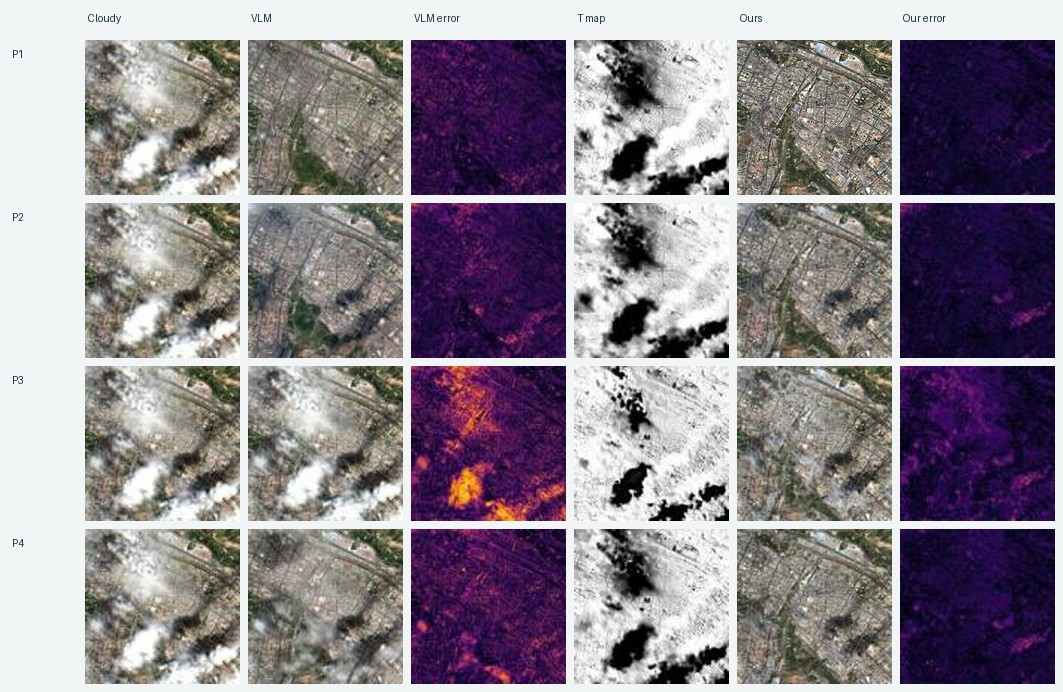
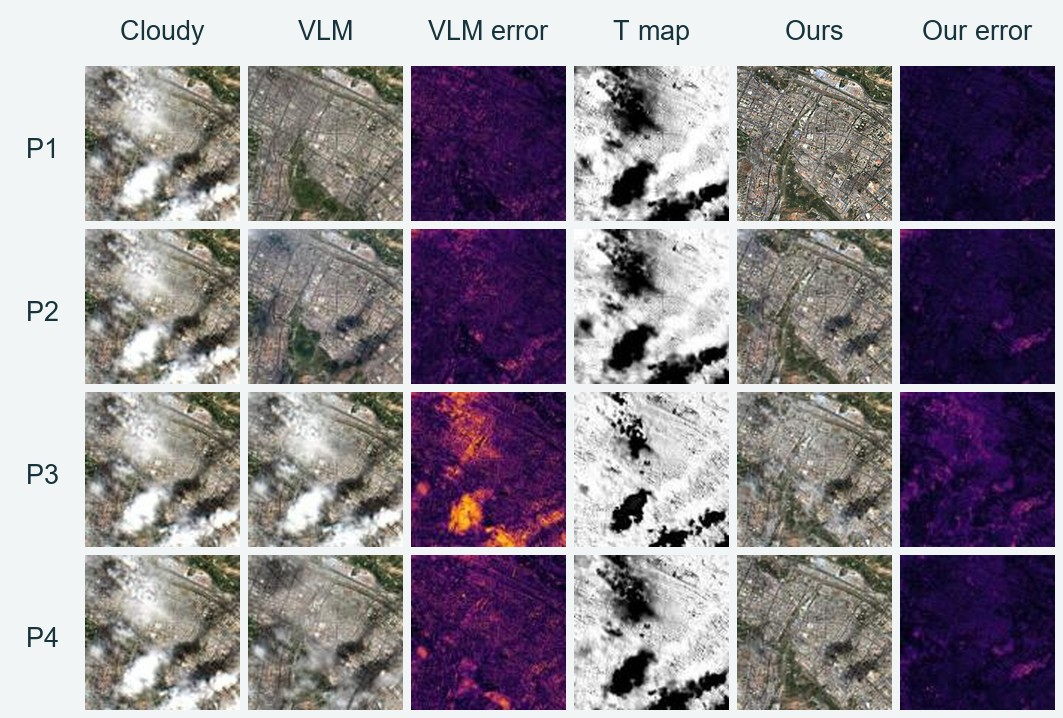
Add prompt sensitivity metrics and refine project navigation

diff --git a/docs/index.html b/docs/index.html
@@ -21,6 +21,15 @@
     .metrics tbody th { text-align: left; }
     .metrics th, .metrics td { padding: 9px 6px; }
     .table-note { margin: 12px 0 0; color: var(--muted); font-size: 13px; }
+    .prompt-table { width: 100%; min-width: 0; margin: 0 0 28px; table-layout: fixed; font-size: 14px; }
+    .prompt-table th, .prompt-table td { padding: 10px 8px; border-bottom: 1px solid var(--line); text-align: left; white-space: normal; overflow-wrap: anywhere; }
+    .prompt-table thead th { border-top: 1px solid var(--line); font-size: 13px; }
+    .prompt-table th:first-child { width: 6%; }
+    .prompt-table th:nth-child(2) { width: 12%; }
+    .prompt-table th:nth-child(3) { width: 10%; }
+    .prompt-table th:nth-child(4) { width: 38%; }
+    .prompt-table th:nth-child(5), .prompt-table th:nth-child(6) { width: 17%; }
+    .prompt-table tbody th { font-weight: 700; }
     .citation-section pre { margin: 0; padding: 23px; overflow-x: auto; border: 1px solid var(--line); border-radius: 7px; background: #f6f8f9; color: #384a55; font: 13px/1.65 Consolas, "Liberation Mono", monospace; }
     @media (max-width: 640px) {
       .metrics thead { display: none; }
@@ -30,6 +39,11 @@
       .metrics tbody td { display: block; text-align: left; }
       .metrics tbody td::before { content: attr(data-label); display: block; color: var(--muted); font-weight: 600; white-space: normal; }
       .metrics .table-wrap { overflow: visible; }
+      .prompt-table thead { display: none; }
+      .prompt-table, .prompt-table tbody, .prompt-table tr, .prompt-table th, .prompt-table td { display: block; width: 100% !important; }
+      .prompt-table tr { margin-bottom: 12px; border: 1px solid var(--line); background: #fff; }
+      .prompt-table tbody th { background: #eef3f6; }
+      .prompt-table td::before { content: attr(data-label); display: block; color: var(--muted); font-size: 12px; font-weight: 600; }
       .citation-section pre { font-size: 11px; }
     }
   </style>
@@ -55,7 +69,7 @@
       <div class="actions">
         <a class="button secondary" href="https://ieeexplore.ieee.org/abstract/document/11641653" target="_blank" rel="noopener noreferrer">Paper <span aria-hidden="true">↗</span></a>
         <a class="button secondary" href="https://github.com/Liying-Xu/PhyVLM-CR">Code <span aria-hidden="true">↗</span></a>
-        <a class="button secondary" href="PhyVLM_CR6_Colab.ipynb" download>Colab notebook <span aria-hidden="true">↓</span></a>
+        <a class="button secondary" href="#code">Colab notebook <span aria-hidden="true">↓</span></a>
       </div>
     </section>
 
@@ -78,7 +92,7 @@
 
     <section id="results" class="section results-section">
       <div class="wrap">
-        <div class="section-head"><span class="kicker">02 / EXPERIMENTS</span><h2>Six scenes.<br><em>One continuous treatment.</em></h2></div>
+        <div class="section-head"><span class="kicker">02 / EXPERIMENTS</span><h2>All-cloud Removal Results</h2></div>
         <p class="intro">The manuscript evaluates six 2023 Sentinel-2 scenes using the nearest clear observation as ground truth and the second-nearest as the temporal reference. The images below are reproduced from the supplied manuscript.</p>
         <figure class="figure-card dark-card">
           <a href="assets/results.jpg" target="_blank" rel="noopener noreferrer" aria-label="Open all-cloud removal comparison at full size"><img src="assets/results.jpg" alt="Qualitative comparison across Sichuan, Hainan, Qinghai, Hubei, Jiangsu, and Yunnan" width="1474" height="1074" loading="lazy"></a>
@@ -104,7 +118,13 @@
     <section class="section wrap prompt-section">
       <div class="section-head"><span class="kicker">03 / ROBUSTNESS</span><h2>Prompt Sensitivity Analysis</h2></div>
       <p class="intro">Across four Chinese and English prompts, the proposed PhyVLM-CR method shows comparatively stable results despite larger changes in the raw VLM outputs.</p>
-      <figure class="figure-card"><img src="assets/prompts.jpg" alt="Four prompt variants showing the cloudy scene, VLM output and error, estimated transmission, and final PhyVLM-CR result and error" width="1063" height="692" loading="lazy"><figcaption>Paper Fig. 3 · Prompt sensitivity on the Yunnan scene</figcaption></figure>
+      <table class="prompt-table"><caption>Prompt sensitivity analysis of raw VLM output and final PhyVLM-CR result (PSNR / SSIM).</caption><thead><tr><th scope="col">ID</th><th scope="col">Language</th><th scope="col">Type</th><th scope="col">Prompt</th><th scope="col">VLM<br>PSNR / SSIM</th><th scope="col">PhyVLM-CR<br>PSNR / SSIM</th></tr></thead><tbody>
+        <tr><th scope="row">P1</th><td data-label="Language">Chinese</td><td data-label="Type">Simple</td><td data-label="Prompt" lang="zh">“去云”</td><td data-label="VLM PSNR / SSIM">14.456 / 0.3182</td><td data-label="PhyVLM-CR PSNR / SSIM">19.312 / 0.8606</td></tr>
+        <tr><th scope="row">P2</th><td data-label="Language">English</td><td data-label="Type">Simple</td><td data-label="Prompt">“Remove clouds”</td><td data-label="VLM PSNR / SSIM">14.053 / 0.3755</td><td data-label="PhyVLM-CR PSNR / SSIM">18.522 / 0.8551</td></tr>
+        <tr><th scope="row">P3</th><td data-label="Language">Chinese</td><td data-label="Type">Complex</td><td data-label="Prompt" lang="zh">“保持无云区地表信息不变，恢复云覆盖区下的地表”</td><td data-label="VLM PSNR / SSIM">9.433 / 0.0542</td><td data-label="PhyVLM-CR PSNR / SSIM">15.442 / 0.7784</td></tr>
+        <tr><th scope="row">P4</th><td data-label="Language">English</td><td data-label="Type">Complex</td><td data-label="Prompt">“Keep cloud-free regions unchanged and recover cloud-covered regions”</td><td data-label="VLM PSNR / SSIM">12.148 / 0.0340</td><td data-label="PhyVLM-CR PSNR / SSIM">18.282 / 0.8526</td></tr>
+      </tbody></table>
+      <figure class="figure-card"><img src="assets/prompts.jpg" alt="Four prompt variants showing the cloudy scene, VLM output and error, estimated transmission, and final PhyVLM-CR result and error" width="1063" height="718" loading="lazy"><figcaption>Paper Fig. 3 · Prompt sensitivity on the Yunnan scene</figcaption></figure>
     </section>
 
     <section id="code" class="section code-section"><div class="wrap code-grid"><div><span class="kicker">04 / CODE</span><h2>Colab notebook</h2><p>The public CR6 notebook covers Earth Engine scene collection, Qwen cognitive-prior acquisition, physics-guided restoration, evaluation, and export.</p><a class="button light" href="PhyVLM_CR6_Colab.ipynb" download>Download notebook <span aria-hidden="true">↗</span></a></div><div class="code-notes"><div><span>01</span><p>Open the notebook in Google Colab.</p></div><div><span>02</span><p>Add <code>EE_PROJECT_ID</code> and <code>DASHSCOPE_API_KEY</code> to Colab Secrets and grant access.</p></div><div><span>03</span><p>Run cells in order. Earth Engine and DashScope access are required.</p></div></div></div></section>

diff --git a/README.md b/README.md
@@ -1,6 +1,6 @@
 # PhyVLM-CR
 
-Code and project page for **Physics-Guided VLM Priors for All-Cloud Removal** by Liying Xu, Huifang Li, and Huanfeng Shen, published in *IEEE Geoscience and Remote Sensing Letters* (2026). [Paper](https://ieeexplore.ieee.org/abstract/document/11641653).
+Code and project page for **Physics-Guided VLM Priors for All-Cloud Removal** by Liying Xu, Huifang Li, and Huanfeng Shen, published in *IEEE Geoscience and Remote Sensing Letters* (2026). [Project page](https://liying-xu.github.io/PhyVLM-CR/) · [Paper](https://ieeexplore.ieee.org/abstract/document/11641653).
 
 ## Colab notebook
 
@@ -15,7 +15,7 @@ The notebook downloads Sentinel-2 observations through Earth Engine, obtains the
 
 ## Project page
 
-The static page is in [`docs/`](docs/index.html). For GitHub Pages, publish the `docs/` folder on the default branch.
+View the [published project page](https://liying-xu.github.io/PhyVLM-CR/). Its source is in [`docs/`](docs/index.html).
 
 ## Scope
 
